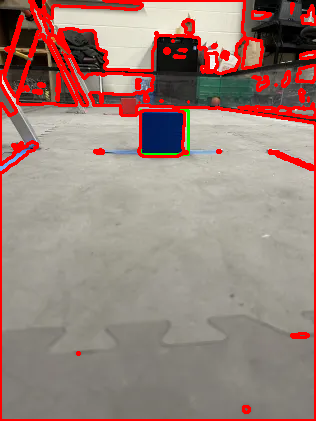
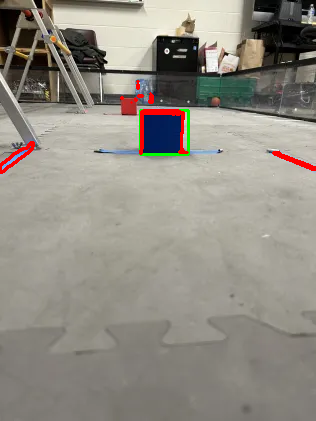
Intermediate commit 3.

diff --git a/main/src/Main.java b/main/src/Main.java
@@ -51,9 +51,11 @@ public class Main {
             // src, gaussian kernel size
             Mat g = gaussian(input).clone();
             // src, ranges
-            Mat m = mask(input, test.ranges).clone();
+            Mat m = mask(hsv, test.ranges).clone();
 
-            Mat gm = mask(g, test.ranges).clone();
+            Mat temp = new Mat();
+            Imgproc.cvtColor(g, temp, Imgproc.COLOR_BGR2HSV);
+            Mat gm = mask(temp, test.ranges).clone();
 
             // src
             List<MatOfPoint> contours = contours(gm);
